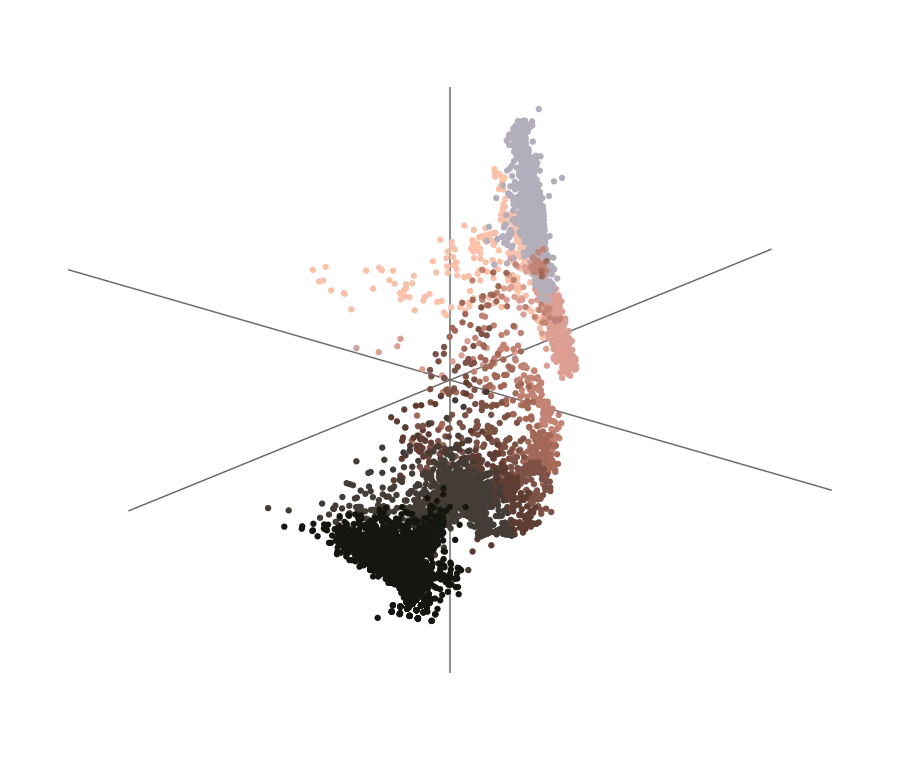
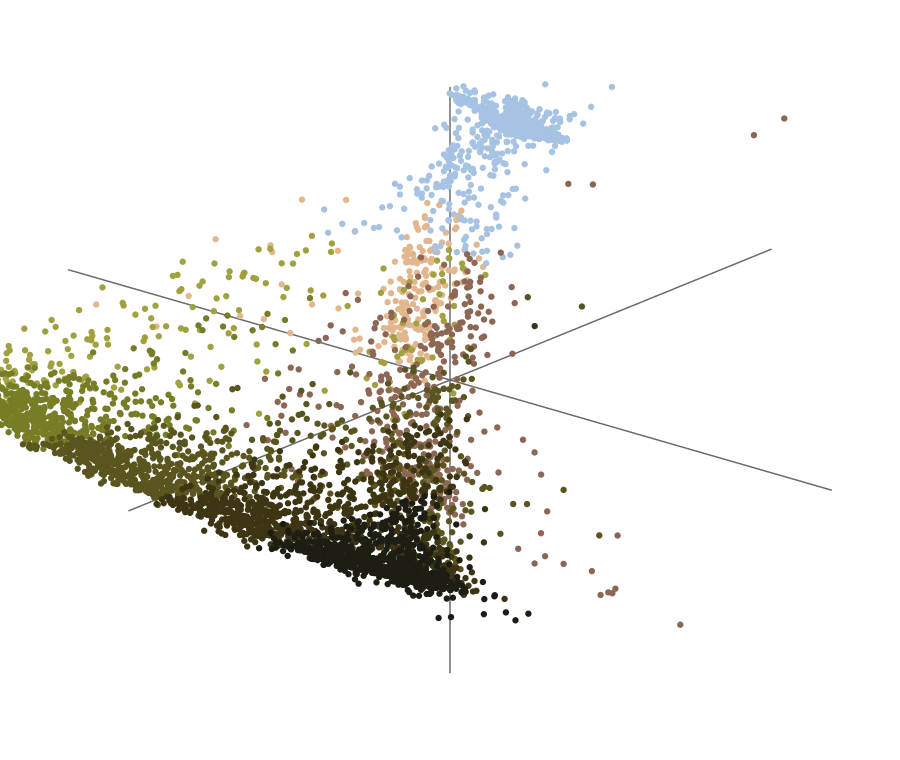
Starter set from the photographer's own photos (27, 1600px WebP, metadata-free) with Try the starter set on Home and Inspiration; Home story now uses 043A7001.jpg; Edit guide tests cover both extra CR3s

diff --git a/src/inspiration/InspirationView.tsx b/src/inspiration/InspirationView.tsx
@@ -4,7 +4,7 @@ import { useEffect, useState } from "react";
 import { SiteHeader } from "@/ui/SiteHeader";
 import { HexButton } from "@/ui/HexButton";
 import { FullAnalysis, Histogram, HueChart, PaletteCards, Strip, Wheel, Estimated, pct } from "@/ui/viz";
-import { addPhotos, analysePending, MAX_PHOTOS, movePhoto } from "@/library/library";
+import { addPhotos, analysePending, loadStarterSet, MAX_PHOTOS, movePhoto } from "@/library/library";
 import { useLibrary, useThumbUrls } from "@/library/hooks";
 import type { Family } from "@/analysis/group";
 import { AddPhotos } from "./AddPhotos";
@@ -18,6 +18,19 @@ export function InspirationView() {
   const [notice, setNotice] = useState<string | null>(null);
 
   useEffect(() => { void analysePending((done, total) => setProgress(total ? { done, total } : null)).finally(() => setProgress(null)); }, []);
+  const starter = async () => {
+    setNotice(null);
+    try { await loadStarterSet((done, total) => setProgress({ done, total })); } catch { setNotice("The starter set could not be loaded. Check your connection and try again."); }
+    setProgress(null);
+  };
+  // arriving from Home's "Try the starter set" with an empty library: load it straight away
+  const wantsStarter = lib.loaded && lib.photos.length === 0 && typeof window !== "undefined" && new URLSearchParams(window.location.search).has("starter");
+  useEffect(() => {
+    if (!wantsStarter) return;
+    window.history.replaceState(null, "", "/inspiration");
+    const t = setTimeout(() => void starter(), 0);
+    return () => clearTimeout(t);
+  }, [wantsStarter]);
 
   const busy = !!progress && progress.done < progress.total;
   const ingest = async (files: File[]) => {
@@ -57,7 +70,8 @@ export function InspirationView() {
           <section className="card empty" aria-labelledby="empty-h">
             <h2 id="empty-h" className="card-h">Start with photos you love</h2>
             <p className="note">Add up to {MAX_PHOTOS} reference photos, or drop them anywhere on this page. They are analysed on this device and the originals never leave it.</p>
-            <div className="actions">{add}</div>
+            <div className="actions">{add}<button type="button" className="btn btn-secondary" onClick={starter} disabled={busy}>Try the starter set</button></div>
+            <p className="note">The starter set is 27 photos by the photographer who made Colorway.</p>
           </section>
         )}
 

diff --git a/spike/home-assets.ts b/spike/home-assets.ts
@@ -1,9 +1,9 @@
 /**
- * Builds the Home story assets from the user's own R6 test photo:
+ * Builds the Home story assets from one of the user's own photos (an edited JPG, or a RAW's embedded preview):
  *   public/home/sample.webp       the photo (embedded camera JPEG, metadata stripped)
  *   public/home/points.json       a pixel grid: sRGB bytes + palette group per pixel
  *   public/home/cloud*.webp       static fallbacks (reduced motion, phones, low power)
- * Usage: npx tsx spike/home-assets.ts [reference/raw-test-2.CR3]
+ * Usage: npx tsx spike/home-assets.ts [starter-set/043A7001.jpg]
  */
 import { readFile, writeFile } from "node:fs/promises";
 import sharp from "sharp";
@@ -11,13 +11,16 @@ import { librawClient } from "./libraw-node";
 import { analyzePhoto } from "../src/analysis/photo";
 import { linearToOklab, SRGB_TO_LINEAR } from "../src/analysis/color";
 
-const src = process.argv[2] ?? "reference/raw-test-2.CR3";
-const c = librawClient();
-await c.call("open", new Uint8Array(await readFile(src)), {});
-const th = await c.call("thumbnailData");
-c.close();
-if (!th || th.format !== "jpeg") throw new Error("No embedded JPEG preview in this RAW");
-const jpeg = Buffer.from(th.data);
+const src = process.argv[2] ?? "starter-set/043A7001.jpg";
+let jpeg: Buffer;
+if (/\.(cr3|cr2|nef|arw|dng)$/i.test(src)) {
+  const c = librawClient();
+  await c.call("open", new Uint8Array(await readFile(src)), {});
+  const th = await c.call("thumbnailData");
+  c.close();
+  if (!th || th.format !== "jpeg") throw new Error("No embedded JPEG preview in this RAW");
+  jpeg = Buffer.from(th.data);
+} else jpeg = await readFile(src);
 
 // sharp drops EXIF/GPS unless asked to keep it
 await sharp(jpeg).rotate().resize(1400).webp({ quality: 82 }).toFile("public/home/sample.webp");

diff --git a/src/home/HomeView.tsx b/src/home/HomeView.tsx
@@ -71,12 +71,12 @@ export function HomeView() {
           <div className="hero-text">
             <h1 id="hero-h">See the colour in your photos</h1>
             <p className="lead">Colorway reads the photos you love and shows the palette behind them.</p>
-            <div className="actions"><Link className="btn btn-primary btn-lg" href="/inspiration">Try it with your photos</Link><a className="btn btn-secondary btn-lg" href="#story">See how it works</a></div>
+            <div className="actions"><Link className="btn btn-primary btn-lg" href="/inspiration?starter=1">Try the starter set</Link><Link className="btn btn-secondary btn-lg" href="/inspiration">Upload your photos</Link></div>
             <p className="privacy">Analysed in your browser. Your originals never leave your device.</p>
           </div>
           <figure className="hero-photo">
             {/* eslint-disable-next-line @next/next/no-img-element */}
-            <img src="/home/sample.webp" width={1400} height={933} alt="A castle tower by a lake at sunset, pink sky over dark trees" fetchPriority="high" />
+            <img src="/home/sample.webp" width={1400} height={933} alt="A red-brick Victorian building with a clock tower behind summer trees, under a clear blue sky" fetchPriority="high" />
             <figcaption>Scroll to take this photo apart.</figcaption>
           </figure>
         </section>

diff --git a/tests/e2e/edit.spec.ts b/tests/e2e/edit.spec.ts
@@ -5,6 +5,8 @@ import { join } from "node:path";
 const REF = "reference";
 const pngs = existsSync(REF) ? readdirSync(REF).filter((f) => f.endsWith(".png")).sort().map((f) => join(REF, f)) : [];
 const cr3 = join(REF, "raw-test-2.CR3");
+// the user's own extra CR3s (gitignored), tested too when present
+const moreCr3 = ["starter-set/043A7001.CR3", "starter-set/043A0922.CR3"].filter((f) => existsSync(f));
 
 test("edit guide decodes a CR3 in the browser and fits slider ranges", async ({ page }) => {
   test.skip(pngs.length < 15 || !existsSync(cr3), "needs reference/ photos and a CR3");
@@ -24,5 +26,12 @@ test("edit guide decodes a CR3 in the browser and fits slider ranges", async ({ 
   await expect(page.getByText("Compressed C-RAW")).toBeVisible();
   await expect(page.getByRole("heading", { name: /^Colour, toward/ })).toBeVisible();
   await page.screenshot({ path: "test-results/edit.png", fullPage: true });
+  for (const f of moreCr3) {
+    await page.reload();
+    await page.locator('input[type="file"]').first().setInputFiles(f);
+    await expect(page.locator(".slider").first()).toBeVisible({ timeout: 60_000 });
+    await expect(page.getByText("Canon EOS R6")).toBeVisible();
+    console.log(`${f}: ranges shown`);
+  }
   expect(errors).toEqual([]);
 });

diff --git a/scripts/build-starter.ts b/scripts/build-starter.ts
@@ -1,0 +1,22 @@
+/**
+ * Builds the public starter set from the user's own photos in starter-set/ (gitignored originals):
+ * 1600 px long edge, WebP, and NO metadata (sharp drops EXIF, GPS, XMP and ICC unless asked to keep them).
+ * Usage: npx tsx scripts/build-starter.ts
+ */
+import { readdir, mkdir, rm, writeFile } from "node:fs/promises";
+import sharp from "sharp";
+
+const SRC = "starter-set", OUT = "public/starter";
+await rm(OUT, { recursive: true, force: true });
+await mkdir(OUT, { recursive: true });
+const files = (await readdir(SRC)).filter((f) => /\.jpe?g$/i.test(f)).sort();
+const list: { file: string; width: number; height: number }[] = [];
+for (const f of files) {
+  const name = f.replace(/\.jpe?g$/i, ".webp");
+  const info = await sharp(`${SRC}/${f}`).rotate().resize(1600, 1600, { fit: "inside" }).webp({ quality: 80 }).toFile(`${OUT}/${name}`);
+  const meta = await sharp(`${OUT}/${name}`).metadata();
+  if (meta.exif || meta.xmp || meta.iptc) throw new Error(`${name} still carries metadata`);
+  list.push({ file: name, width: info.width, height: info.height });
+}
+await writeFile(`${OUT}/manifest.json`, JSON.stringify({ photos: list }, null, 1));
+console.log(`starter set: ${list.length} photos, metadata-free`);

diff --git a/src/library/library.ts b/src/library/library.ts
@@ -39,6 +39,13 @@ export async function addPhotos(files: File[], onProgress?: (done: number, total
   return accepted.length;
 }
 
+/** The public starter set (the photographer's own photos, metadata-free WebP) loaded into the library. */
+export async function loadStarterSet(onProgress?: (done: number, total: number) => void) {
+  const { photos } = (await (await fetch("/starter/manifest.json")).json()) as { photos: { file: string }[] };
+  const files = await Promise.all(photos.map(async (p) => new File([await (await fetch(`/starter/${p.file}`)).blob()], p.file, { type: "image/webp" })));
+  return addPhotos(files, onProgress);
+}
+
 /** Analyse every photo without a current analysis (new photos, or after a version bump). */
 export async function analysePending(onProgress?: (done: number, total: number) => void) {
   const d = db();

diff --git a/tests/e2e/starter.spec.ts b/tests/e2e/starter.spec.ts
@@ -1,0 +1,13 @@
+import { test, expect } from "@playwright/test";
+
+test("home's starter-set button fills the library with the photographer's photos", async ({ page }) => {
+  const errors: string[] = [];
+  page.on("pageerror", (e) => errors.push(e.message));
+  page.on("response", (r) => { if (r.status() >= 400) errors.push(`${r.status()} ${r.url()}`); });
+  await page.goto("/");
+  await page.getByRole("link", { name: "Try the starter set" }).click();
+  await expect(page.locator(".fam-row").first()).toBeVisible({ timeout: 90_000 });
+  await expect(page.locator(".ph-card")).toHaveCount(27);
+  await page.screenshot({ path: "test-results/starter.png", fullPage: true });
+  expect(errors).toEqual([]);
+});
